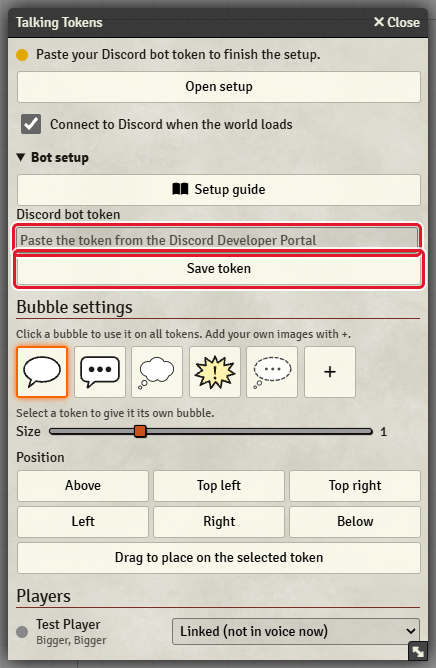
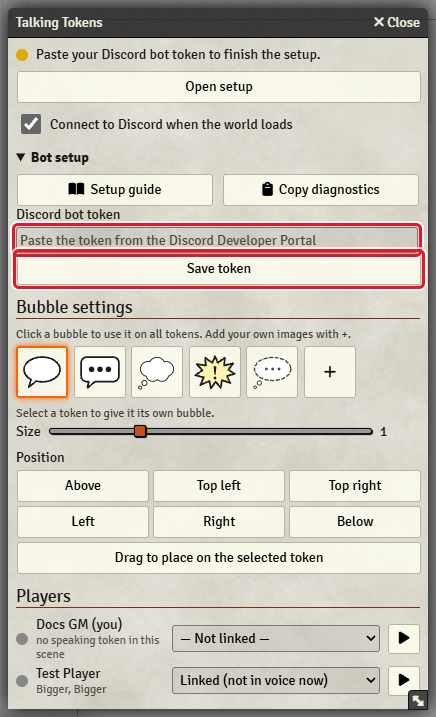
Update the guide for the Test button and the diagnostics
The panel screenshots show the current panel: the Bot setup buttons,
the bubble settings, the GM's own row, and the line that counts the
linked people. The guide gets a step for the Test button, a status
row for "reconnecting", and a "Report a bug" part with Copy
diagnostics.

diff --git a/README.md b/README.md
@@ -149,6 +149,9 @@ The small text under each player name in the panel shows the token that speaks n
 
 22. The GM has no assigned character. To show your own voice, mark an NPC token with the microphone in the same way.
 
+23. To check a token without speaking, click the **▶** button next to a name under **Players**. The bubble shows on
+    that user's speaking token for 3 seconds, for every user.
+
 The setup is complete.
 
 ## Change the bubble
@@ -213,6 +216,12 @@ The status line at the top of the panel always shows one message. Find the messa
 - If another bridge already runs, the new window closes at once. This is correct: the first bridge stays.
 - If the bridge stops because of an error, it writes the error to
   `%APPDATA%\talking-tokens-bridge\bridge.log`. Send this file with your bug report.
+
+### Report a bug
+
+Open the panel, open **Bot setup**, and click **Copy diagnostics**. Paste the text into your bug report on
+[GitHub](https://github.com/b1o/foundry-vtt-talking-tokens/issues). The text has versions and states only: no token
+and no names.
 
 ## Privacy
 
